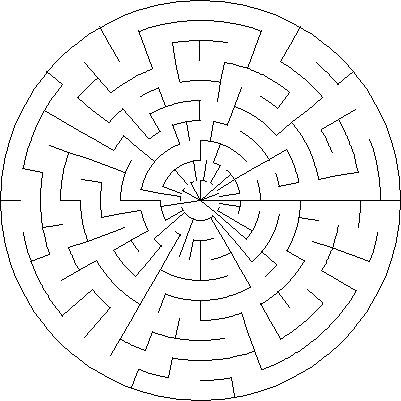
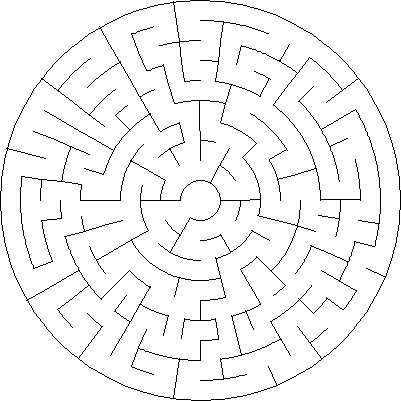
Create polar mazes using recursive backtracker

diff --git a/README.md b/README.md
@@ -68,7 +68,8 @@ To print a maze with masked cells:
 
 To print a circular (polar) maze:
 ```clojure
-(png/render-polar (b/create (m/init 10 36)))
+(png/render-polar
+  (b/create (polar/init 10) [0 0] polar/empty-neighbors polar/link))
 ```
 
 ![Polar Maze](polar-maze.png)
